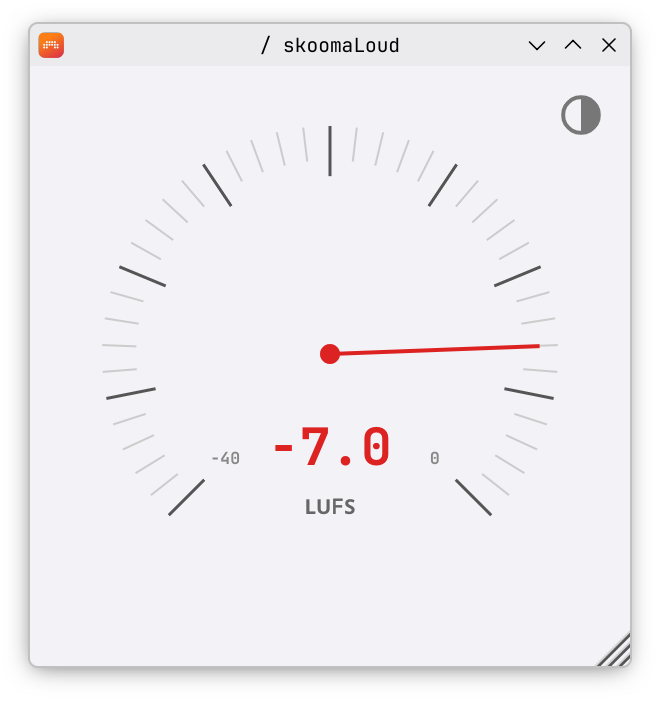
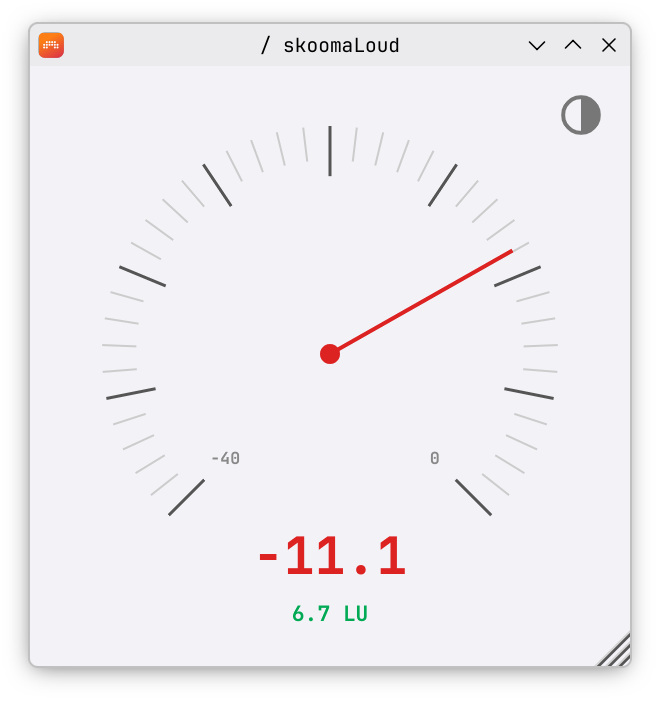
1.0.3: add LRA readout, retune color zones to streaming targets
Replaces the static "LUFS" label with a color-coded BS.1770-4 Loudness
Range readout (red <4 LU, green 4-12, yellow >12) that resets on
transport rising-edge. LUFS color zones move from loudness-war
thresholds to streaming-friendly (yellow <-18, green -18 to -12,
red >-12), anchored on Spotify -14 / Apple -16. Unified text-band
layout to match siblings; also bridges the shared FetchContent cache
and fixes a SkoomaTuner→skoomaTuner casing typo in the README.

diff --git a/Source/PluginEditor.cpp b/Source/PluginEditor.cpp
@@ -98,6 +98,11 @@ void SkoomaLoudEditor::timerCallback()
     needleVelocity += force * dt;
     smoothedLufs   += needleVelocity * dt;
 
+    // LRA settles slowly; light one-pole smoothing keeps the readout steady
+    // without lagging meaningful changes. Meter returns 0 when not enough data.
+    const float lra = processor.currentLra.load(std::memory_order_acquire);
+    displayLra += 0.2f * (lra - displayLra);
+
     repaint();
 }
 
@@ -115,16 +120,19 @@ void SkoomaLoudEditor::paint(juce::Graphics& g)
     float cy = w * 0.48f;
     float radius = w * 0.38f;
 
-    // Loudness color zones (per user: quiet < -14, average -14..-8, hot > -8)
+    // Loudness color zones, anchored to streaming-platform normalization targets
+    // (Spotify/YouTube/Tidal -14 LUFS, Apple -16 LUFS): green is the band where
+    // normalization is essentially free; red means the platform will turn you
+    // down (squashed dynamics for nothing); yellow means quieter than targets.
     juce::Colour valColour;
     if (!std::isfinite(displayLufs))
         valColour = t.meterOff;
-    else if (displayLufs < -14.0f)
-        valColour = t.meterLow;
-    else if (displayLufs < -8.0f)
-        valColour = t.meterMid;
+    else if (displayLufs < -18.0f)
+        valColour = t.meterMid;     // yellow — below streaming targets
+    else if (displayLufs < -12.0f)
+        valColour = t.meterLow;     // green  — in the streaming-friendly band
     else
-        valColour = t.meterHigh;
+        valColour = t.meterHigh;    // red    — above targets, will be turned down
 
     // --- Gauge ---
     float arcStart = juce::MathConstants<float>::pi * 0.75f;
@@ -205,23 +213,37 @@ void SkoomaLoudEditor::paint(juce::Graphics& g)
     drawIcon(g, iconTheme.get(), themeRect.reduced(iconSize * 0.2f), t.toggleIcon);
 
     // --- Numeric readout (only when signal present) ---
+    // Unified text band across Tuner/Loud/Image: main at 0.76w, secondary at 0.89w,
+    // placed below the arc endpoints (y ≈ 0.75w) so the needle sweep can't overlap.
+    const float mainH  = 34.0f * scale;
+    const float mainY  = 0.76f * w;
+    const float labelH = 14.0f * scale;
+    const float labelY = 0.89f * w;
+
     if (std::isfinite(displayLufs))
     {
-        float valH = 34.0f * scale;
-        float valY = cy + 28.0f * scale;
-
         g.setColour(valColour);
-        g.setFont(monoFont.withHeight(valH));
+        g.setFont(monoFont.withHeight(mainH));
         g.drawText(juce::String(displayLufs, 1),
-                   juce::Rectangle<float>(0, valY, w, valH * 1.1f),
+                   juce::Rectangle<float>(0, mainY, w, mainH),
                    juce::Justification::centred, false);
+    }
 
-        float labY = valY + valH * 1.15f;
-        float labH = 14.0f * scale;
-        g.setColour(t.valueText);
-        g.setFont(monoFont.withHeight(labH));
-        g.drawText("LUFS",
-                   juce::Rectangle<float>(0, labY, w, labH * 1.3f),
+    // Loudness Range secondary readout: tells the producer if the mix is
+    // over-compressed (red <4 LU), in the typical rock/jazz/funk band
+    // (green 4–12 LU), or so dynamic it'll feel quiet on streaming
+    // (yellow >12 LU). Hidden until the meter has enough data (returns 0).
+    if (displayLra > 0.05f)
+    {
+        const juce::Colour lraColour =
+            displayLra < 4.0f  ? t.meterHigh :
+            displayLra > 12.0f ? t.meterMid  :
+                                 t.meterLow;
+
+        g.setColour(lraColour);
+        g.setFont(monoFont.withHeight(labelH));
+        g.drawText(juce::String(displayLra, 1) + " LU",
+                   juce::Rectangle<float>(0, labelY, w, labelH),
                    juce::Justification::centred, false);
     }
 }

diff --git a/Source/dsp/LoudnessMeter.cpp b/Source/dsp/LoudnessMeter.cpp
@@ -4,6 +4,7 @@
 */
 
 #include "LoudnessMeter.h"
+#include <algorithm>
 #include <cmath>
 #include <limits>
 
@@ -90,6 +91,8 @@ void ShortTermLoudnessMeter::prepare(double sampleRate, int numChannels)
     filters.assign(static_cast<size_t>(channels), KWeightingFilter{});
     for (auto& f : filters) f.prepare(sampleRate);
 
+    history.reserve(static_cast<size_t>(kHistoryCap));
+
     reset();
 }
 
@@ -101,6 +104,14 @@ void ShortTermLoudnessMeter::reset()
     blockMs.fill(0.0);
     blockIdx     = 0;
     blocksFilled = 0;
+    resetHistory();
+}
+
+void ShortTermLoudnessMeter::resetHistory() noexcept
+{
+    history.clear();
+    historyCount = 0;
+    historyWrite = 0;
 }
 
 void ShortTermLoudnessMeter::process(const float* const* channelData,
@@ -126,6 +137,23 @@ void ShortTermLoudnessMeter::process(const float* const* channelData,
             if (blocksFilled < kWindowBlocks) ++blocksFilled;
             accumSq    = 0.0;
             accumCount = 0;
+
+            // Append the latest short-term loudness to the LRA history. Only
+            // store finite values (the >−70 LUFS gate is in getShortTermLufs).
+            const float st = getShortTermLufs();
+            if (std::isfinite(st))
+            {
+                if (historyCount < kHistoryCap)
+                {
+                    history.push_back(st);   // no realloc — reserved at prepare()
+                    ++historyCount;
+                }
+                else
+                {
+                    history[static_cast<size_t>(historyWrite)] = st;
+                    historyWrite = (historyWrite + 1) % kHistoryCap;
+                }
+            }
         }
     }
 }
@@ -151,6 +179,46 @@ float ShortTermLoudnessMeter::getShortTermLufs() const noexcept
         return -std::numeric_limits<float>::infinity();
 
     return static_cast<float>(lufs);
+}
+
+float ShortTermLoudnessMeter::getLoudnessRange() const noexcept
+{
+    // Need ≈ 3 s of signal before the percentiles mean anything. Below that,
+    // tell the caller "no useful number yet".
+    if (historyCount < 30) return 0.0f;
+
+    // Copy out, apply BS.1770-4 gating, then percentile.
+    std::vector<float> work;
+    work.reserve(static_cast<size_t>(historyCount));
+    for (int i = 0; i < historyCount; ++i)
+    {
+        const float v = history[static_cast<size_t>(i)];
+        if (v >= -70.0f)         // absolute gate
+            work.push_back(v);
+    }
+    if (work.size() < 30) return 0.0f;
+
+    // Relative gate: drop blocks below (ungated mean − 20 LU). Mean is in
+    // the loudness domain (LU/LUFS), per the standard.
+    double sum = 0.0;
+    for (float v : work) sum += v;
+    const float relGate = static_cast<float>(sum / static_cast<double>(work.size())) - 20.0f;
+
+    work.erase(std::remove_if(work.begin(), work.end(),
+                              [relGate](float v) { return v < relGate; }),
+               work.end());
+    if (work.size() < 30) return 0.0f;
+
+    std::sort(work.begin(), work.end());
+    auto pct = [&work](double p) {
+        const double idx = p * static_cast<double>(work.size() - 1);
+        const size_t lo  = static_cast<size_t>(std::floor(idx));
+        const size_t hi  = std::min(lo + 1, work.size() - 1);
+        const double f   = idx - static_cast<double>(lo);
+        return static_cast<float>(work[lo] * (1.0 - f) + work[hi] * f);
+    };
+
+    return pct(0.95) - pct(0.10);
 }
 
 } // namespace skloud

diff --git a/Source/dsp/LoudnessMeter.h b/Source/dsp/LoudnessMeter.h
@@ -39,12 +39,16 @@ private:
 
 // Short-term loudness meter: sums K-weighted squared samples across all
 // channels into 100 ms blocks, holds the last 30 blocks (3 s window),
-// reports loudness in LUFS via getShortTermLufs().
+// reports loudness in LUFS via getShortTermLufs(). Also accumulates a
+// long history of short-term values for Loudness Range (LRA) per BS.1770-4.
 class ShortTermLoudnessMeter
 {
 public:
     void prepare(double sampleRate, int numChannels);
     void reset();
+    // Clear LRA history without disturbing the short-term ring (used on
+    // transport rising-edge so each playthrough gets a fresh range).
+    void resetHistory() noexcept;
 
     // Process one block of interleaved-by-channel-pointer audio.
     // channelData[c] points to numSamples floats for channel c.
@@ -53,9 +57,16 @@ public:
     // Returns short-term loudness in LUFS, or -INFINITY if no data yet.
     float getShortTermLufs() const noexcept;
 
+    // Returns Loudness Range (LRA) in LU per BS.1770-4: P95 − P10 of
+    // short-term values gated by −70 LUFS absolute and −20 LU relative
+    // to the ungated mean. Returns 0.0f when there isn't enough data
+    // (need at least ~3 s of signal) — caller treats that as "hide".
+    float getLoudnessRange() const noexcept;
+
 private:
-    static constexpr int kBlockMs = 100;
-    static constexpr int kWindowBlocks = 30;     // 3 s
+    static constexpr int kBlockMs       = 100;
+    static constexpr int kWindowBlocks  = 30;     // 3 s short-term window
+    static constexpr int kHistoryCap    = 36000;  // 1 hour @ 10 samples/s
 
     double sr{48000.0};
     int channels{2};
@@ -68,6 +79,13 @@ private:
     std::array<double, kWindowBlocks> blockMs{}; // ring of mean-square per block
     int blockIdx{0};
     int blocksFilled{0};
+
+    // LRA history: short-term LUFS sampled once per 100 ms block. Reserved
+    // to kHistoryCap at prepare(); push_back is realtime-safe until full,
+    // then we wrap (ring) so very long sessions reflect the most recent hour.
+    std::vector<float> history;
+    int historyCount{0};
+    int historyWrite{0};
 };
 
 } // namespace skloud

diff --git a/Source/PluginProcessor.cpp b/Source/PluginProcessor.cpp
@@ -28,11 +28,26 @@ void SkoomaLoudProcessor::prepareToPlay(double sampleRate, int /*samplesPerBlock
     const int ch = juce::jmax(1, getTotalNumInputChannels());
     meter.prepare(sampleRate, ch);
     currentLufs.store(-std::numeric_limits<float>::infinity(), std::memory_order_release);
+    currentLra.store(0.0f, std::memory_order_release);
+    wasPlaying = false;
 }
 
 void SkoomaLoudProcessor::processBlock(juce::AudioBuffer<float>& buffer, juce::MidiBuffer&)
 {
     juce::ScopedNoDenormals noDenormals;
+
+    // Reset the LRA history at transport start (rising edge) so each
+    // playthrough reports the dynamic range of just that take.
+    if (auto* ph = getPlayHead())
+    {
+        if (auto pos = ph->getPosition())
+        {
+            const bool playing = pos->getIsPlaying();
+            if (playing && !wasPlaying)
+                meter.resetHistory();
+            wasPlaying = playing;
+        }
+    }
 
     const int numCh = buffer.getNumChannels();
     const int numSamples = buffer.getNumSamples();
@@ -40,6 +55,7 @@ void SkoomaLoudProcessor::processBlock(juce::AudioBuffer<float>& buffer, juce::M
     {
         meter.process(buffer.getArrayOfReadPointers(), numCh, numSamples);
         currentLufs.store(meter.getShortTermLufs(), std::memory_order_release);
+        currentLra.store(meter.getLoudnessRange(), std::memory_order_release);
     }
 }
 

diff --git a/Source/PluginProcessor.h b/Source/PluginProcessor.h
@@ -40,10 +40,12 @@ public:
     void setStateInformation(const void* data, int sizeInBytes) override;
 
     std::atomic<float> currentLufs{-std::numeric_limits<float>::infinity()};
+    std::atomic<float> currentLra{0.0f};
     std::atomic<bool>  darkMode{true};
 
 private:
     skloud::ShortTermLoudnessMeter meter;
+    bool wasPlaying{false};
 
     JUCE_DECLARE_NON_COPYABLE_WITH_LEAK_DETECTOR(SkoomaLoudProcessor)
 };

diff --git a/Source/PluginEditor.h b/Source/PluginEditor.h
@@ -33,6 +33,7 @@ private:
     float displayLufs    = kMinLufs;       // raw (incl. -inf clamp for display only)
     float smoothedLufs   = kMinLufs;
     float needleVelocity = 0.0f;
+    float displayLra     = 0.0f;
 
     JUCE_DECLARE_NON_COPYABLE_WITH_LEAK_DETECTOR(SkoomaLoudEditor)
 };

diff --git a/README.md b/README.md
@@ -5,10 +5,10 @@
 <td><img src="screenshots/light-theme.png" width="200"></td>
 </tr></table>
 
-Short-term LUFS (ITU-R BS.1770-4, 3-second sliding window) on a single needle. Dark and light themes. Spring-damped needle physics.
+Short-term LUFS and Loudness Range (ITU-R BS.1770-4) on a single needle, color-coded to streaming-platform normalization targets. Dark and light themes. Spring-damped needle physics.
 
 Part of a series of small, minimal VST3 plugins:
-- [skoomaTuner](https://github.com/skoomabwoy/SkoomaTuner) (tuner)
+- [skoomaTuner](https://github.com/skoomabwoy/skoomaTuner) (tuner)
 - [skoomaImage](https://github.com/skoomabwoy/skoomaImage) (stereo image)
 - [skoomaFilter](https://github.com/skoomabwoy/skoomaFilter) (LP filter)
 - [skoomaRoute](https://github.com/skoomabwoy/skoomaRoute) (stereo routing)
